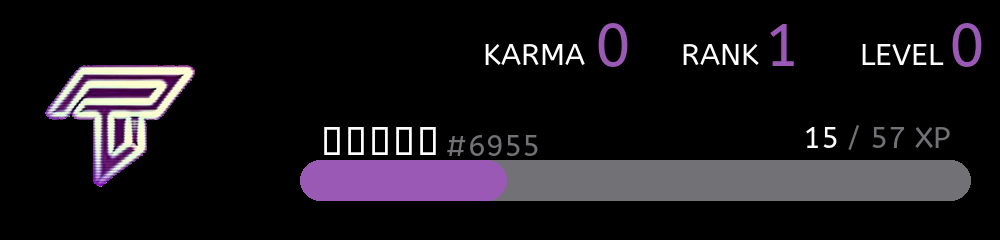
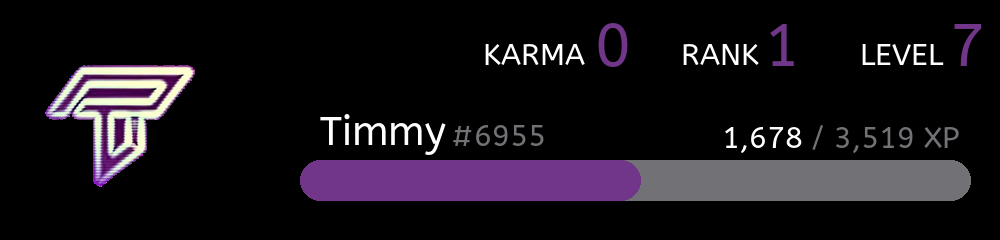
add market support

diff --git a/cogs/commands.py b/cogs/commands.py
@@ -14,12 +14,16 @@ import time
 from datetime import datetime, timedelta
 import asyncio
 import psutil
-from PIL import Image, ImageDraw, ImageFont
+from PIL import Image, ImageDraw, ImageFont, ImageFile, ImageFilter, ImagePath
 import aiohttp
 from typing import Optional
 from io import BytesIO
 
 guild_ids = [791160100567384094]
+
+
+async def open_image(rank_background):
+    return rank_background
 
 #LEADERBOARD GENERATOR
 class Menu(ListPageSource):
@@ -449,7 +453,6 @@ class Commands(commands.Cog):
         else:
             return
 
-
     #RANK
     @commands.command(aliases=["rnk"])
     async def rank(self, context, target: Optional[Member]):
@@ -466,13 +469,22 @@ class Commands(commands.Cog):
         if exp or level is not None:
             rank = f"{ids.index(target.id)+1}"
             xp = exp
-            user_name = str(target.name)
+            user_name = str(target.nick or target.display_name)
             discriminator = f"#{target.discriminator}"
 
             final_xp_calc = int((level + 1) ** (20 / 11) * 42)
             final_xp = final_xp_calc + xp  
+            
+            rank_background = db.record(f"SELECT RankBackground FROM usersettings WHERE UserID = {target.id}")[0]
 
-            background = Image.new("RGB", (1000, 240))
+            if rank_background == "None":
+                background = Image.new("RGB", (1000, 240))
+
+            else:
+                with Image.open(rank_background, "r") as f:
+                    background = f.convert("RGB")
+                
+    
             async with aiohttp.ClientSession() as session:
                 async with session.get(str(target.avatar_url)) as response:
                     image = await response.read()
@@ -492,21 +504,21 @@ class Commands(commands.Cog):
                     text_size = draw.textsize(str(level), font=big_font)
                     offset_x = 1000 - 15 - text_size[0]
                     offset_y = 10
-                    draw.text((offset_x, offset_y), str(level), font=big_font, fill="#9B59B6")
+                    draw.text((offset_x, offset_y), str(level), font=big_font, fill=await colours.colour_hex(context, target))
                     text_size = draw.textsize("LEVEL", font=small_font)
                     offset_x -= text_size[0] + 5
                     draw.text((offset_x, offset_y + 27), "LEVEL", font=small_font, fill="#fff")
 
                     text_size = draw.textsize(f"#{rank}", font=big_font)
                     offset_x -= text_size[0] + 15
-                    draw.text((offset_x, offset_y), f"{rank}", font=big_font, fill="#9B59B6")
+                    draw.text((offset_x, offset_y), f"{rank}", font=big_font, fill=await colours.colour_hex(context, target))
                     text_size = draw.textsize("RANK", font=small_font)
                     offset_x -= text_size[0] + 5
                     draw.text((offset_x, offset_y + 27), "RANK", font=small_font, fill="#fff")
                     
                     text_size = draw.textsize(f"{message_count}", font=big_font)
                     offset_x -= text_size[0] + 50
-                    draw.text((offset_x, offset_y), f"{message_count}", font=big_font, fill="#9B59B6")
+                    draw.text((offset_x, offset_y), f"{message_count}", font=big_font, fill=await colours.colour_hex(context, target))
                     text_size = draw.textsize("KARMA", font=small_font)
                     offset_x -= text_size[0] + 10
                     draw.text((offset_x, offset_y + 27), "KARMA", font=small_font, fill="#fff")
@@ -518,7 +530,7 @@ class Commands(commands.Cog):
                     circle_size = bar_offset_y_1 - bar_offset_y
                     draw.rectangle((bar_offset_x, bar_offset_y, bar_offset_x_1, bar_offset_y_1), fill="#727175")
                     draw.ellipse(
-                        (bar_offset_x - circle_size // 2, bar_offset_y, bar_offset_x + circle_size // 2, bar_offset_y_1), fill="#9B59B6"
+                        (bar_offset_x - circle_size // 2, bar_offset_y, bar_offset_x + circle_size // 2, bar_offset_y_1), fill=await colours.colour_hex(context, target)
                     )
                     draw.ellipse(
                         (bar_offset_x_1 - circle_size // 2, bar_offset_y, bar_offset_x_1 + circle_size // 2, bar_offset_y_1), fill="#727175"
@@ -528,12 +540,12 @@ class Commands(commands.Cog):
                     progress = 100 - progress
                     progress_bar_length = round(bar_length * progress / 100)
                     bar_offset_x_1 = bar_offset_x + progress_bar_length
-                    draw.rectangle((bar_offset_x, bar_offset_y, bar_offset_x_1, bar_offset_y_1), fill="#9B59B6")
+                    draw.rectangle((bar_offset_x, bar_offset_y, bar_offset_x_1, bar_offset_y_1), fill=await colours.colour_hex(context, target))
                     draw.ellipse(
-                        (bar_offset_x - circle_size // 2, bar_offset_y, bar_offset_x + circle_size // 2, bar_offset_y_1), fill="#9B59B6"
+                        (bar_offset_x - circle_size // 2, bar_offset_y, bar_offset_x + circle_size // 2, bar_offset_y_1), fill=await colours.colour_hex(context, target)
                     )
                     draw.ellipse(
-                        (bar_offset_x_1 - circle_size // 2, bar_offset_y, bar_offset_x_1 + circle_size // 2, bar_offset_y_1), fill="#9B59B6"
+                        (bar_offset_x_1 - circle_size // 2, bar_offset_y, bar_offset_x_1 + circle_size // 2, bar_offset_y_1), fill=await colours.colour_hex(context, target)
                     )
                     text_size = draw.textsize(f"/ {final_xp} XP", font=small_font)
                     offset_x = 950 - text_size[0]
@@ -554,9 +566,46 @@ class Commands(commands.Cog):
                     background.save("./data/img/imgswap.png")
                     ffile = discord.File("./data/img/imgswap.png")
                     await context.reply(file=ffile, mention_author=False)
-
+                       
         else:
             await context.reply("You are not in the database :(\nDon't worry though, you were just added! Try running the command again.", mention_author=False)
+
+    #test rank_background
+    @commands.command()
+    @commands.check(checks.is_owner)
+    async def rb(self, context, arg, target: Optional[Member]):
+        target = target or context.author
+
+        db.execute(f"UPDATE usersettings SET RankBackground = ? WHERE UserID = ?",
+            arg,
+            target.id
+        )
+
+    @commands.command(aliases=["atm"])
+    @commands.check(checks.is_owner)
+    async def add_to_market(self, context, name, category, quantity, price):
+        embed = discord.Embed(colour=await colours.colour(context))
+
+        db.execute(f"INSERT INTO globalmarket (ItemName, Category, QuantityLimit, QuantityAvailable, Price) VALUES (?, ?, ?, ?, ?)", 
+            name, 
+            category, 
+            quantity, 
+            quantity,
+            price
+        )
+        db.commit()
+
+         
+        fields = [("`Market`", f"New item added by {context.author.name}", True),
+                  ("`Name`", name, False),
+                  ("`category`", category, True),
+                  ("`quantity`", quantity, True),
+                  ("`price`", f":coin: {price}", True)]
+
+        for name, value, inline in fields:
+            embed.add_field(name=name, value=value, inline=inline)
+
+        await context.reply(embed=embed, mention_author=False)
 
 def setup(client):
     client.add_cog(Commands(client))

diff --git a/cogs/error.py b/cogs/error.py
@@ -10,15 +10,15 @@ class error(commands.Cog):
     async def on_ready(self):
         pass
 
-    @commands.Cog.listener()
-    async def on_command_error(self, context, error):
+    # @commands.Cog.listener()
+    # async def on_command_error(self, context, error):
 
-        if isinstance(error, commands.CheckFailure):
-            await context.reply(f"**oops :|**\nYou are not priveleged enough to use this command.", mention_author=False)
-            await log.is_owner_false(self, context, error)
+    #     if isinstance(error, commands.CheckFailure):
+    #         await context.reply(f"**oops :|**\nYou are not priveleged enough to use this command.", mention_author=False)
+    #         await log.is_owner_false(self, context, error)
 
-        else:
-            await context.reply(f"**error :(**\n```diff\n- {error}```", mention_author=False)
+    #     else:
+    #         await context.reply(f"**error :(**\n```diff\n- {error}```", mention_author=False)
 
 def setup(client):
     client.add_cog(error(client))

diff --git a/client.py b/client.py
@@ -72,6 +72,7 @@ class OneCoolBot(commands.AutoShardedBot):
         super().__init__(*args, **kwargs)
         self.version = __VERSION__
         self.start_time = time.time()
+        self.maintenance = False
 
     async def on_ready(self):
         await update_users_table(self)
@@ -107,10 +108,10 @@ for filename in os.listdir("./cogs"):
 #change presence
 async def change_presence():
         await client.wait_until_ready()
-        statuses = ["Evolving AI", f"{len(client.users)} members", "𝓣𝓲𝓶𝓶𝔂 code..."]
+        statuses = ["/help"]
         while not client.is_closed():
             status = random.choice(statuses)
-            await client.change_presence(status=discord.Status.online, activity=discord.Activity(type=discord.ActivityType.watching, name=status))
+            await client.change_presence(status=discord.Status.online, activity=discord.Activity(type=discord.ActivityType.listening, name=status))
             await asyncio.sleep(10)  
 
 #statcord handling

diff --git a/utils/colours.py b/utils/colours.py
@@ -5,6 +5,12 @@ from db import db
 async def colour(context):
     colour = db.record(f"SELECT ColorTheme FROM usersettings WHERE UserID = {context.author.id}")[0]
     return int(colour, base=16)
+
+async def colour_hex(context, target):
+    colour = db.record(f"SELECT ColorTheme FROM usersettings WHERE UserID = {target.id}")[0]
+    hexthingy = "#"
+    color = (colour)[2:]
+    return hexthingy + color
     
 async def change_colour(context, value):
     db.execute(f"UPDATE usersettings SET ColorTheme = ? WHERE UserID = {context.author.id}",
